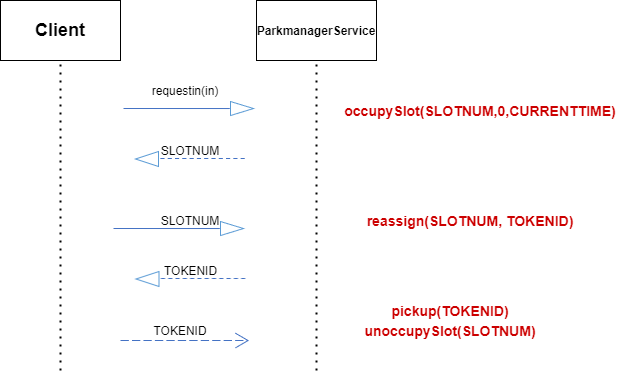
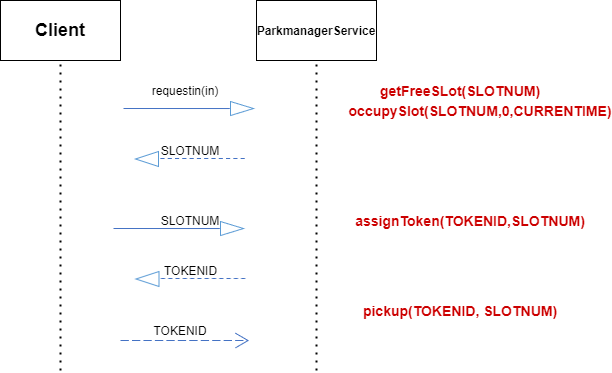
corretti alcuni errori e aggiornato documento SPRINT3

diff --git a/SPRINT3/progetto/it.unibo.ParkManagerTrolley/src/it/unibo/parkmanagerservice/Parkmanagerservice.kt b/SPRINT3/progetto/it.unibo.ParkManagerTrolley/src/it/unibo/parkmanagerservice/Parkmanagerservice.kt
@@ -20,29 +20,44 @@ class Parkmanagerservice ( name: String, scope: CoroutineScope  ) : ActorBasicFs
 				var counter=0 
 				var x = 0
 				var y = 0
+				var StartTime = 0L
+				var DURATION = 0L
+				var TOKENID = ""
 		return { //this:ActionBasciFsm
 				state("s0") { //this:State
 					action { //it:State
 						discardMessages = false
 						solve("consult('parking.pl')","") //set resVar	
 						solve("dynamic('freeSlot/1')","") //set resVar	
+						solve("dynamic('occupied/3')","") //set resVar	
 						solve("init(X)","") //set resVar	
+						StartTime = getCurrentTime()
 						coap.actorQakStateCoapObserver.activate(myself)
 						println("Starting ParkManagerService.")
+					}
+					 transition( edgeName="goto",targetState="accept", cond=doswitch() )
+				}	 
+				state("checkTimeout") { //this:State
+					action { //it:State
+						DURATION = getDuration(StartTime)
+						solve("timedout($DURATION)","") //set resVar	
 					}
 					 transition( edgeName="goto",targetState="accept", cond=doswitch() )
 				}	 
 				state("accept") { //this:State
 					action { //it:State
 						println("ParkManagerServing accepting client requests...")
+						stateTimer = TimerActor("timer_accept", 
+							scope, context!!, "local_tout_parkmanagerservice_accept", 10000.toLong() )
 					}
-					 transition(edgeName="clientMsg0",targetState="handleClientRequest",cond=whenRequestGuarded("clientRequest",{ coap.actorQakStateCoapObserver.readTrolley()!="stopped"  
+					 transition(edgeName="clientMsg0",targetState="checkTimeout",cond=whenTimeout("local_tout_parkmanagerservice_accept"))   
+					transition(edgeName="clientMsg1",targetState="handleClientRequest",cond=whenRequestGuarded("clientRequest",{ coap.actorQakStateCoapObserver.readTrolley()!="stopped"  
 					}))
-					transition(edgeName="clientMsg1",targetState="handleCarEnter",cond=whenRequestGuarded("carenter",{ coap.actorQakStateCoapObserver.readTrolley()!="stopped"  
+					transition(edgeName="clientMsg2",targetState="handleCarEnter",cond=whenRequestGuarded("carenter",{ coap.actorQakStateCoapObserver.readTrolley()!="stopped"  
 					}))
-					transition(edgeName="clientMsg2",targetState="handleClientOut",cond=whenDispatchGuarded("outTokenid",{ coap.actorQakStateCoapObserver.readOutdoor()=="free" && coap.actorQakStateCoapObserver.readTrolley()!="stopped"  
+					transition(edgeName="clientMsg3",targetState="handleClientOut",cond=whenDispatchGuarded("outTokenid",{ coap.actorQakStateCoapObserver.readOutdoor()=="free" && coap.actorQakStateCoapObserver.readTrolley()!="stopped"  
 					}))
-					transition(edgeName="clientMsg3",targetState="stoptrolley",cond=whenDispatch("stop"))
+					transition(edgeName="clientMsg4",targetState="stoptrolley",cond=whenDispatch("stop"))
 				}	 
 				state("handleClientRequest") { //this:State
 					action { //it:State
@@ -51,17 +66,11 @@ class Parkmanagerservice ( name: String, scope: CoroutineScope  ) : ActorBasicFs
 						                        currentMsg.msgContent()) ) { //set msgArgList
 								 val requestType = "${payloadArg(0)}"  
 								if(  requestType == "in"  
-								 ){if(  coap.actorQakStateCoapObserver.readWeight()=="free"  
 								 ){solve("getFreeSlot(S)","") //set resVar	
 								 val SLOTNUM = getCurSol("S")  
-								updateResourceRep( "enter("+SLOTNUM+")"  
-								)
-								solve("occupySlot($SLOTNUM)","") //set resVar	
+								DURATION = getDuration(StartTime)
+								solve("occupySlot($SLOTNUM,0,$DURATION)","") //set resVar	
 								answer("clientRequest", "enter", "enter($SLOTNUM)"   )  
-								}
-								else
-								 {answer("clientRequest", "enter", "enter(0)"   )  
-								 }
 								}
 						}
 					}
@@ -73,7 +82,10 @@ class Parkmanagerservice ( name: String, scope: CoroutineScope  ) : ActorBasicFs
 						if( checkMsgContent( Term.createTerm("carenter(SLOTNUM)"), Term.createTerm("carenter(SLOTNUM)"), 
 						                        currentMsg.msgContent()) ) { //set msgArgList
 								 val SLOTNUM = payloadArg(0).toInt()  
-								solve("indoor(X,Y)","") //set resVar	
+								solve("isFree($SLOTNUM,X)","") //set resVar	
+								 var FREE = getCurSol("X").toString()  
+								if(  FREE == "true"  
+								 ){solve("indoor(X,Y)","") //set resVar	
 								 x = getCurSol("X").toString().toInt()  
 								 y = getCurSol("Y").toString().toInt()  
 								 forward("move", "move($x,$y)" ,"trolleylogic" )  
@@ -81,23 +93,26 @@ class Parkmanagerservice ( name: String, scope: CoroutineScope  ) : ActorBasicFs
 								 x = getCurSol("X").toString().toInt()  
 								 y = getCurSol("Y").toString().toInt()  
 								 forward("move", "move($x,$y)" ,"trolleylogic" )  
-								 val TOKENID = "$SLOTNUM"+"$counter"  
+								 TOKENID = "$SLOTNUM"+"$counter"  
 								 counter++  
-								updateResourceRep( "receipt("+TOKENID+")"  
-								)
+								solve("assignToken($TOKENID,$SLOTNUM)","") //set resVar	
+								}
+								else
+								 { TOKENID = "0"  
+								 }
 								answer("carenter", "receipt", "receipt($TOKENID)"   )  
 						}
 						stateTimer = TimerActor("timer_handleCarEnter", 
 							scope, context!!, "local_tout_parkmanagerservice_handleCarEnter", 1000.toLong() )
 					}
-					 transition(edgeName="t34",targetState="moveTrolleyHome",cond=whenTimeout("local_tout_parkmanagerservice_handleCarEnter"))   
-					transition(edgeName="t35",targetState="handleClientRequest",cond=whenRequestGuarded("clientRequest",{ coap.actorQakStateCoapObserver.readTrolley()!="stopped"  
+					 transition(edgeName="t35",targetState="moveTrolleyHome",cond=whenTimeout("local_tout_parkmanagerservice_handleCarEnter"))   
+					transition(edgeName="t36",targetState="handleClientRequest",cond=whenRequestGuarded("clientRequest",{ coap.actorQakStateCoapObserver.readTrolley()!="stopped"  
 					}))
-					transition(edgeName="t36",targetState="handleCarEnter",cond=whenRequestGuarded("carenter",{ coap.actorQakStateCoapObserver.readTrolley()!="stopped"  
+					transition(edgeName="t37",targetState="handleCarEnter",cond=whenRequestGuarded("carenter",{ coap.actorQakStateCoapObserver.readTrolley()!="stopped"  
 					}))
-					transition(edgeName="t37",targetState="handleClientOut",cond=whenDispatchGuarded("outTokenid",{ coap.actorQakStateCoapObserver.readOutdoor()=="free"  && coap.actorQakStateCoapObserver.readTrolley()!="stopped"  
+					transition(edgeName="t38",targetState="handleClientOut",cond=whenDispatchGuarded("outTokenid",{ coap.actorQakStateCoapObserver.readOutdoor()=="free"  && coap.actorQakStateCoapObserver.readTrolley()!="stopped"  
 					}))
-					transition(edgeName="t38",targetState="stoptrolley",cond=whenDispatch("stop"))
+					transition(edgeName="t39",targetState="stoptrolley",cond=whenDispatch("stop"))
 				}	 
 				state("handleClientOut") { //this:State
 					action { //it:State
@@ -115,20 +130,20 @@ class Parkmanagerservice ( name: String, scope: CoroutineScope  ) : ActorBasicFs
 								 x = getCurSol("X").toString().toInt()  
 								 y = getCurSol("Y").toString().toInt()  
 								 forward("move", "move($x,$y)" ,"trolleylogic" )  
-								solve("unoccupySlot($SLOTNUM)","") //set resVar	
+								solve("pickup($TOKENID,$SLOTNUM)","") //set resVar	
 						}
 						}
 						stateTimer = TimerActor("timer_handleClientOut", 
 							scope, context!!, "local_tout_parkmanagerservice_handleClientOut", 1000.toLong() )
 					}
-					 transition(edgeName="t49",targetState="moveTrolleyHome",cond=whenTimeout("local_tout_parkmanagerservice_handleClientOut"))   
-					transition(edgeName="t410",targetState="handleClientRequest",cond=whenRequestGuarded("clientRequest",{ coap.actorQakStateCoapObserver.readTrolley()!="stopped"  
+					 transition(edgeName="t410",targetState="moveTrolleyHome",cond=whenTimeout("local_tout_parkmanagerservice_handleClientOut"))   
+					transition(edgeName="t411",targetState="handleClientRequest",cond=whenRequestGuarded("clientRequest",{ coap.actorQakStateCoapObserver.readTrolley()!="stopped"  
 					}))
-					transition(edgeName="t411",targetState="handleCarEnter",cond=whenRequestGuarded("carenter",{ coap.actorQakStateCoapObserver.readTrolley()!="stopped"  
+					transition(edgeName="t412",targetState="handleCarEnter",cond=whenRequestGuarded("carenter",{ coap.actorQakStateCoapObserver.readTrolley()!="stopped"  
 					}))
-					transition(edgeName="t412",targetState="handleClientOut",cond=whenDispatchGuarded("outTokenid",{ coap.actorQakStateCoapObserver.readOutdoor()=="free" && coap.actorQakStateCoapObserver.readTrolley()!="stopped"  
+					transition(edgeName="t413",targetState="handleClientOut",cond=whenDispatchGuarded("outTokenid",{ coap.actorQakStateCoapObserver.readOutdoor()=="free" && coap.actorQakStateCoapObserver.readTrolley()!="stopped"  
 					}))
-					transition(edgeName="t413",targetState="stoptrolley",cond=whenDispatch("stop"))
+					transition(edgeName="t414",targetState="stoptrolley",cond=whenDispatch("stop"))
 				}	 
 				state("moveTrolleyHome") { //this:State
 					action { //it:State

diff --git a/SPRINT3/modello/it.unibo.ParkManagerService/userDocs/parkManagerService_3.html b/SPRINT3/modello/it.unibo.ParkManagerService/userDocs/parkManagerService_3.html
@@ -314,7 +314,7 @@ As stated in the <k>SPRINT 0</k> this problem requires the communications of dif
 
 <h2>Test plans</h2> 
 
-<h4>Test the new system </h4>
+<h4>Test the new timedout mechanism </h4>
  We simulate a <ks>N</ks> number of client, and we put a delay between two request to see if the previous request is discarded.
 <br> 
  To check if the test is successful we need to observe the parkmanager responses.
@@ -323,6 +323,7 @@ As stated in the <k>SPRINT 0</k> this problem requires the communications of dif
  <ul>
 	<li><em>INDOOR-area</em> is free.</li>
 	<li><em>OUTDOOR-area</em> is free.</li>
+	<li>Temperature <k>TA</k><<k>TMAX</k></li>
 	<li><tt>Transport Trolley</tt> is <em>home</em> (not stopped).</li>
 	<li>The parking slots are not occupied.</li>
  </ul>
@@ -335,6 +336,27 @@ As stated in the <k>SPRINT 0</k> this problem requires the communications of dif
  <p>JUnit test: <a href="../src/test/TestPlanUseCase1.kt">TestPlanUseCase1.kt</a>
  <br>
 
+<h4>Test the complete system </h4>
+ We simulate a <ks>a)</ks> enterrequest, <ks>b)</ks> carenter and <ks>c)</ks> pickup request 2 seconds from each other.
+<br> 
+ To check if the test is successful we need to observe the parkmanager responses.
+ <br><br>
+ <ks>Starting conditions:</ks>
+ <ul>
+	<li><em>INDOOR-area</em> is free.</li>
+	<li><em>OUTDOOR-area</em> is free.</li>
+	<li>Temperature <k>TA</k><<k>TMAX</k></li>
+	<li><tt>Transport Trolley</tt> is <em>home</em> (not stopped).</li>
+	<li>The parking slots are <ks>0&ltnfree&lt6</ks> free and <ks>0&ltnbusy&lt6</ks> occupied.</li>
+ </ul>
+ We expect that:
+ <ol>
+	
+ </ol> 
+ 
+ </ol>
+ <p>JUnit test: <a href="../src/test/TestPlanEnd.kt">TestPlanEnd.kt</a>
+ <br>
 
 <h2>Project</h2> 
  
@@ -367,11 +389,13 @@ Prolog has been modified following the Analysis:
 <table style="width:100%" border="1">
 	<tr>
 		<td style="width:50%">
-		>
 			<ol>
-				<li>.</li>
-				<li>.</li>
-				<li>.</li>
+				<li>After a <tt>requestin</tt> we find the best slot, according to the logic developed in the SPRINT 1, using <k>getFreeSlot(X)</k>. </li>
+				<li>Then we use <k>occupySlot(SLOTNUM,TOKENID,CURRENTIME)</k> which temporarily occupies the parking slot with <ks>TOKENID = 0</ks>.</li>
+				<li>If the client does a <tt>carenter</tt> we assign the new <tt>TOKENID</tt> with <k>assignToken(TOKENID,SLOTNUM)</k>.</li>
+				<li>After a pickup request we use <ks>pickup(TOKENID,SLOTNUM)</ks> to free the parking slot and remove the info about the occupied state.</li>
+				<li>Every 10 seconds our application calls <k>timedout(CURRENTIME)</k> which automatically get rid of the request that are stored more than <k>timemax</k> milliseconds ago with <ks>TOKENID=0</ks>, which means they are not really occupied by a car.</li>
+				<li>If a client does a <tt>carenter</tt> after a time above <k>timemax</k> if the parking slot is still free we procede normally, otherwise we responde with <tt>TOKENID</tt> = 0.</li>
 			</ol>
 		</td>
 		<td>

diff --git a/SPRINT3/modello/it.unibo.ParkManagerService/src/it/unibo/parkmanagerservice/Parkmanagerservice.kt b/SPRINT3/modello/it.unibo.ParkManagerService/src/it/unibo/parkmanagerservice/Parkmanagerservice.kt
@@ -29,6 +29,7 @@ class Parkmanagerservice ( name: String, scope: CoroutineScope  ) : ActorBasicFs
 						discardMessages = false
 						solve("consult('parking.pl')","") //set resVar	
 						solve("dynamic('freeSlot/1')","") //set resVar	
+						solve("dynamic('occupied/3')","") //set resVar	
 						solve("init(X)","") //set resVar	
 						StartTime = getCurrentTime()
 						coap.actorQakStateCoapObserver.activate(myself)
@@ -39,7 +40,6 @@ class Parkmanagerservice ( name: String, scope: CoroutineScope  ) : ActorBasicFs
 				state("checkTimeout") { //this:State
 					action { //it:State
 						DURATION = getDuration(StartTime)
-						println("--!-- DURATIONN $DURATION LETSGOOOOOOOOOOOOOOOOOOOOOOOOOOOOOOOOOOOOOOOOOOOOOOOOOOOOOOOOOOOOOOOOOOOOOOOOOOO")
 						solve("timedout($DURATION)","") //set resVar	
 					}
 					 transition( edgeName="goto",targetState="accept", cond=doswitch() )
@@ -121,7 +121,7 @@ class Parkmanagerservice ( name: String, scope: CoroutineScope  ) : ActorBasicFs
 				state("handleClientOut") { //this:State
 					action { //it:State
 						println("ParkManagerServing out.")
-						if(  coap.actorQakStateCoapObserver.readResponse()=="free"  
+						if(  coap.actorQakStateCoapObserver.readOutdoor()=="free"  
 						 ){if( checkMsgContent( Term.createTerm("outTokenid(TOKENID)"), Term.createTerm("outTokenid(X)"), 
 						                        currentMsg.msgContent()) ) { //set msgArgList
 								 val TOKENID = "${payloadArg(0)}"  
@@ -135,7 +135,6 @@ class Parkmanagerservice ( name: String, scope: CoroutineScope  ) : ActorBasicFs
 								 y = getCurSol("Y").toString().toInt()  
 								 forward("move", "move($x,$y)" ,"transporttrolley" )  
 								solve("pickup($TOKENID,$SLOTNUM)","") //set resVar	
-								solve("unoccupySlot($SLOTNUM)","") //set resVar	
 						}
 						}
 						stateTimer = TimerActor("timer_handleClientOut", 

diff --git a/SPRINT3/progetto/it.unibo.ParkManagerTrolley/src/it/unibo/trolleylogic/Trolleylogic.kt b/SPRINT3/progetto/it.unibo.ParkManagerTrolley/src/it/unibo/trolleylogic/Trolleylogic.kt
@@ -45,8 +45,8 @@ class Trolleylogic ( name: String, scope: CoroutineScope  ) : ActorBasicFsm( nam
 						 }
 						println("Waiting messages...")
 					}
-					 transition(edgeName="t016",targetState="handle",cond=whenDispatch("move"))
-					transition(edgeName="t017",targetState="stopped",cond=whenEvent("localtrolleyupdate"))
+					 transition(edgeName="t017",targetState="handle",cond=whenDispatch("move"))
+					transition(edgeName="t018",targetState="stopped",cond=whenEvent("localtrolleyupdate"))
 				}	 
 				state("handle") { //this:State
 					action { //it:State
@@ -132,14 +132,14 @@ class Trolleylogic ( name: String, scope: CoroutineScope  ) : ActorBasicFsm( nam
 						stateTimer = TimerActor("timer_checkStop", 
 							scope, context!!, "local_tout_trolleylogic_checkStop", 200.toLong() )
 					}
-					 transition(edgeName="t118",targetState="wait",cond=whenTimeout("local_tout_trolleylogic_checkStop"))   
-					transition(edgeName="t119",targetState="stopped",cond=whenEvent("localtrolleyupdate"))
+					 transition(edgeName="t119",targetState="wait",cond=whenTimeout("local_tout_trolleylogic_checkStop"))   
+					transition(edgeName="t120",targetState="stopped",cond=whenEvent("localtrolleyupdate"))
 				}	 
 				state("stopped") { //this:State
 					action { //it:State
 						forward("trolleystatusupdate", "trolleystatusupdate(stopped)" ,"transporttrolley" ) 
 					}
-					 transition(edgeName="t120",targetState="checkStart",cond=whenEvent("localtrolleyupdate"))
+					 transition(edgeName="t121",targetState="checkStart",cond=whenEvent("localtrolleyupdate"))
 				}	 
 				state("checkStart") { //this:State
 					action { //it:State

diff --git a/SPRINT3/progetto/it.unibo.ParkManagerTrolley/src/it/unibo/trolleyintermediary/Trolleyintermediary.kt b/SPRINT3/progetto/it.unibo.ParkManagerTrolley/src/it/unibo/trolleyintermediary/Trolleyintermediary.kt
@@ -27,7 +27,7 @@ class Trolleyintermediary ( name: String, scope: CoroutineScope  ) : ActorBasicF
 				state("wait") { //this:State
 					action { //it:State
 					}
-					 transition(edgeName="t021",targetState="handleCmd",cond=whenDispatch("basicmd"))
+					 transition(edgeName="t022",targetState="handleCmd",cond=whenDispatch("basicmd"))
 				}	 
 				state("handleCmd") { //this:State
 					action { //it:State
@@ -49,8 +49,8 @@ class Trolleyintermediary ( name: String, scope: CoroutineScope  ) : ActorBasicF
 					action { //it:State
 						request("step", "step(175)" ,"basicrobot" )  
 					}
-					 transition(edgeName="t022",targetState="wait",cond=whenReply("stepdone"))
-					transition(edgeName="t023",targetState="stepFailed",cond=whenReply("stepfail"))
+					 transition(edgeName="t023",targetState="wait",cond=whenReply("stepdone"))
+					transition(edgeName="t024",targetState="stepFailed",cond=whenReply("stepfail"))
 				}	 
 				state("stepFailed") { //this:State
 					action { //it:State
@@ -62,8 +62,8 @@ class Trolleyintermediary ( name: String, scope: CoroutineScope  ) : ActorBasicF
 								request("step", "step($DIST)" ,"basicrobot" )  
 						}
 					}
-					 transition(edgeName="t124",targetState="wait",cond=whenReply("stepdone"))
-					transition(edgeName="t125",targetState="stepFailed",cond=whenReply("stepfail"))
+					 transition(edgeName="t125",targetState="wait",cond=whenReply("stepdone"))
+					transition(edgeName="t126",targetState="stepFailed",cond=whenReply("stepfail"))
 				}	 
 			}
 		}

diff --git a/SPRINT3/progetto/it.unibo.ParkManagerTrolley/src/it/unibo/transporttrolley/Transporttrolley.kt b/SPRINT3/progetto/it.unibo.ParkManagerTrolley/src/it/unibo/transporttrolley/Transporttrolley.kt
@@ -25,8 +25,8 @@ class Transporttrolley ( name: String, scope: CoroutineScope  ) : ActorBasicFsm(
 				state("wait") { //this:State
 					action { //it:State
 					}
-					 transition(edgeName="t014",targetState="updatestatus",cond=whenDispatch("trolleystatusupdate"))
-					transition(edgeName="t015",targetState="handleMsg",cond=whenDispatch("stop"))
+					 transition(edgeName="t015",targetState="updatestatus",cond=whenDispatch("trolleystatusupdate"))
+					transition(edgeName="t016",targetState="handleMsg",cond=whenDispatch("stop"))
 				}	 
 				state("updatestatus") { //this:State
 					action { //it:State

diff --git a/SPRINT3/progetto/it.unibo.ParkManagerTrolley/src/it/unibo/parkingstate/Parkingstate.kt b/SPRINT3/progetto/it.unibo.ParkManagerTrolley/src/it/unibo/parkingstate/Parkingstate.kt
@@ -57,7 +57,7 @@ class Parkingstate ( name: String, scope: CoroutineScope  ) : ActorBasicFsm( nam
 						stateTimer = TimerActor("timer_wait", 
 							scope, context!!, "local_tout_parkingstate_wait", 300.toLong() )
 					}
-					 transition(edgeName="t026",targetState="wait",cond=whenTimeout("local_tout_parkingstate_wait"))   
+					 transition(edgeName="t027",targetState="wait",cond=whenTimeout("local_tout_parkingstate_wait"))   
 				}	 
 			}
 		}

diff --git a/SPRINT3/modello/it.unibo.ParkManagerService/src/test/TestPlanEnd.kt b/SPRINT3/modello/it.unibo.ParkManagerService/src/test/TestPlanEnd.kt
@@ -21,7 +21,7 @@ import org.junit.After
 import test.kotlin.CoapObserverForTesting
  
  
-class TestPlanUseCase1 {
+class TestPlanEnd {
 		
 	companion object{
 		var systemStarted         = false
@@ -125,3 +125,4 @@ class TestPlanUseCase1 {
 		}
 	}
 }
+
